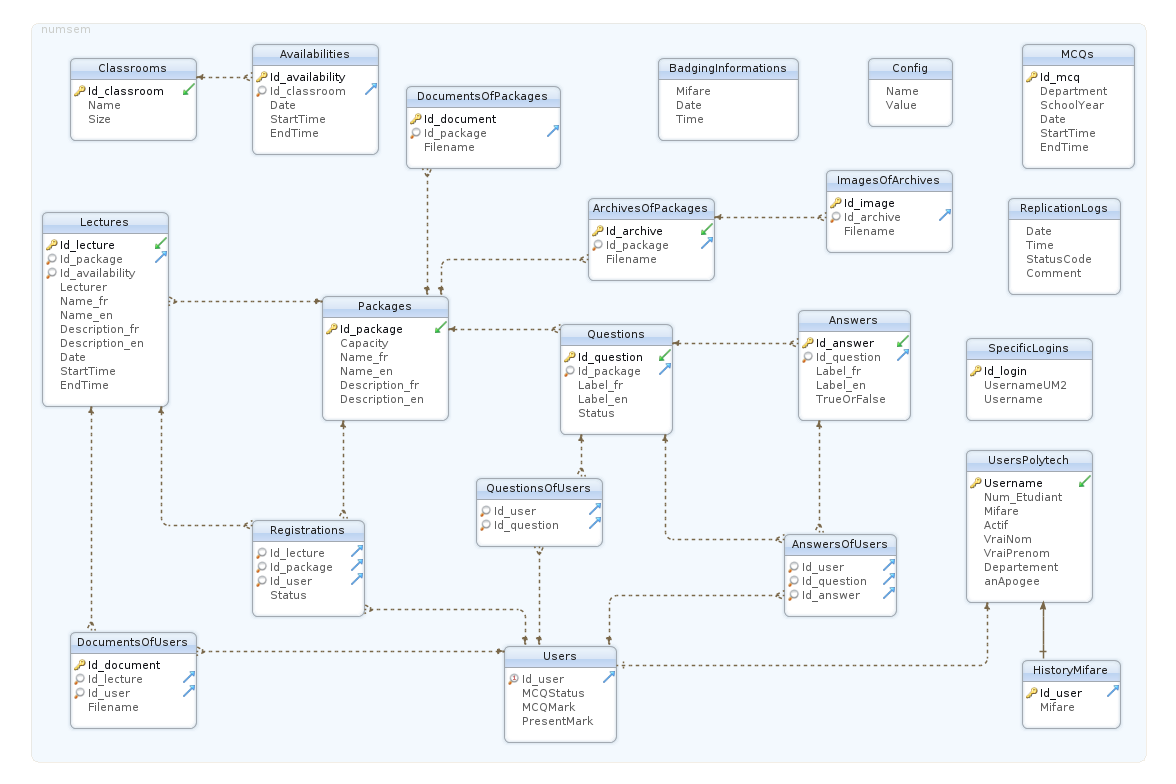
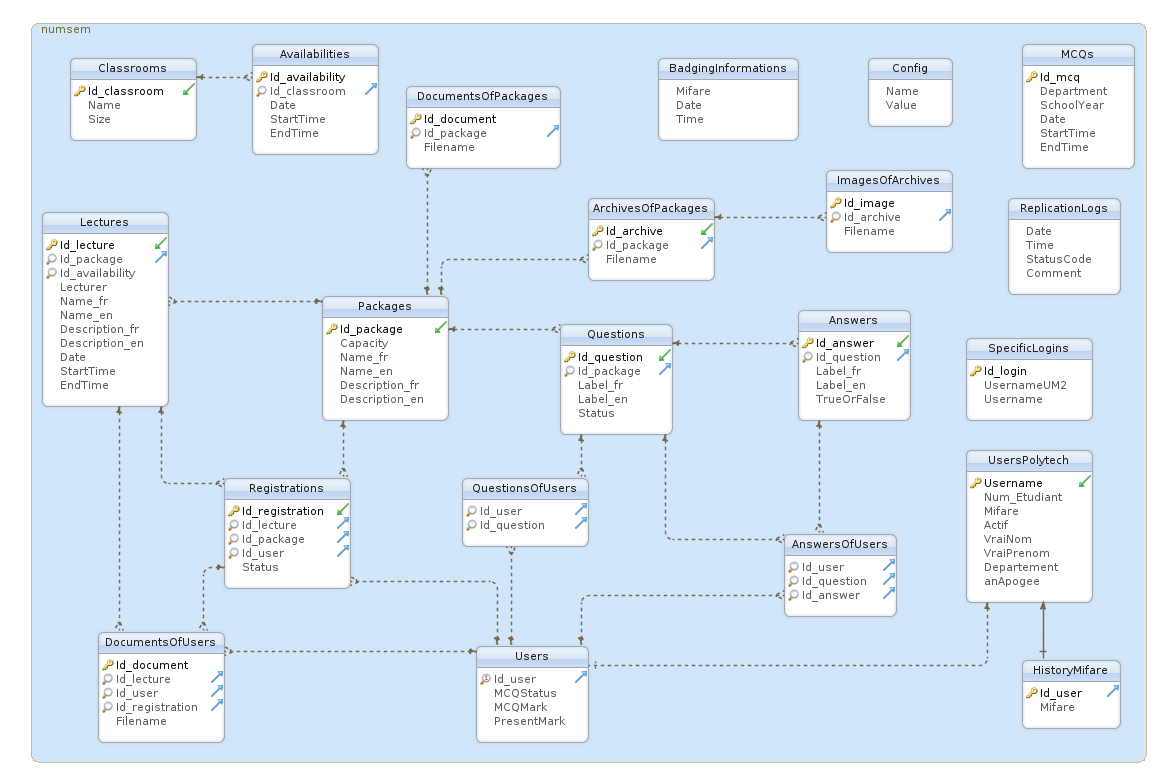
Correction intégrité bd

diff --git a/www/web/styles/style.css b/www/web/styles/style.css
@@ -201,9 +201,11 @@ li
 #flash
 {
 	background: #1F3B62;
-	width: 75%;
+    width: 70%;
     padding: 5px;
-	margin: auto;
+    margin-left: auto;
+    margin-right: auto;
+    margin-bottom: 10px;
     text-align: center;
 }
 

diff --git a/www/lib/models/DocumentOfUserManager.class.php b/www/lib/models/DocumentOfUserManager.class.php
@@ -6,6 +6,7 @@
             $requestSQL = 'SELECT Id_document,
                                   Id_lecture,
                                   Id_user,
+                                  Id_registration,
                                   Filename FROM DocumentsOfUsers';
 
             $paramsSQL = array();
@@ -32,8 +33,9 @@
             {
                 $doc = new DocumentOfUser;
                 $doc->setId($data['Id_document']);
-                $doc->setIdLecture($idLecture);
-                $doc->setIdUser($idUser);
+                $doc->setIdLecture($data['Id_lecture']);
+                $doc->setIdUser($data['Id_user']);
+                $doc->setIdRegistration($data['Id_registration']);
                 $doc->setFilename($data['Filename']);
 
                 $docs[] = $doc;
@@ -46,17 +48,13 @@
         {
             $req = $this->m_dao->prepare('INSERT INTO DocumentsOfUsers(Id_lecture,
                                                                        Id_user, 
-                                                                       Filename) VALUES(?, ?, ?)');
+                                                                       Id_registration, 
+                                                                       Filename) VALUES(?, ?, ?, ?)');
 
             $req->execute(array($doc->getIdLecture(),
                                 $doc->getIdUser(),
+                                $doc->getIdRegistration(),
                                 $doc->getFilename()));
-        }
-
-        public function delete($idLecture, $idUser)
-        {
-            $req = $this->m_dao->prepare('DELETE FROM DocumentsOfUsers WHERE Id_lecture = ? AND Id_user = ?');
-            $req->execute(array($idLecture, $idUser));
         }
     }
 ?>

diff --git a/www/apps/frontend/modules/lectures/views/show.php b/www/apps/frontend/modules/lectures/views/show.php
@@ -77,8 +77,6 @@ $(document).ready(function() {
     }
 ?>
 
-<script type="text/javascript" src="/web/js/confirmation.js"></script>
-
 <?php
     // Display the button only if registration is allowed
     if($registrationsAllowed)
@@ -90,10 +88,10 @@ $(document).ready(function() {
         $form->add('hidden', 'isSubmitted')
              ->value('on');
 
-        $submtiComponent = $form->add('submit', $buttonName);
+        $submitComponent = $form->add('submit', $buttonName);
 
         if(!$wantSubscribe && $haveReportsForThisPackage)
-            $submtiComponent->onClick('return confirmation(\'' . $TEXT['Lecture_ReportsDeletion'] . '\');');
+            $submitComponent->onClick('return window.confirm(\'' . $TEXT['Lecture_ReportsDeletion'] . '\');');
 
         echo $form->toString();
     }

diff --git a/www/apps/frontend/modules/reports/ReportsController.class.php b/www/apps/frontend/modules/reports/ReportsController.class.php
@@ -115,9 +115,17 @@
                     $filename = $packageName . '_' . $lectureName . '_' .$student->getDepartment() . 
                                 $student->getSchoolYear() . '_' . $student->getUsername() .'.pdf';
 
+                    $idRegistration;
+                    foreach($registrations as $reg)
+                    {
+                        if($reg->getIdLecture() == $idLecture)
+                            $idRegistration = $reg->getId();
+                    }
+
                     $doc = new DocumentOfUser;
                     $doc->setIdLecture($idLecture);
                     $doc->setIdUser($username);
+                    $doc->setIdRegistration($idRegistration);
                     $doc->setFilename($filename);
 
                     $managerDoc->save($doc);

diff --git a/www/lib/models/DocumentOfUser.class.php b/www/lib/models/DocumentOfUser.class.php
@@ -4,6 +4,7 @@
         private $m_idDocument;
         private $m_idLecture;
         private $m_idUser;
+        private $m_idRegistration;
         private $m_filename;
 
         public function setId($idDocument)
@@ -34,6 +35,16 @@
         public function getIdUser()
         {
             return $this->m_idUser;
+        }
+
+        public function setIdRegistration($idRegistration)
+        {
+            $this->m_idRegistration = $idRegistration;
+        }
+
+        public function getIdRegistration()
+        {
+            return $this->m_idRegistration;
         }
 
         public function setFilename($filename)

diff --git a/www/apps/frontend/modules/lectures/LecturesController.class.php b/www/apps/frontend/modules/lectures/LecturesController.class.php
@@ -70,12 +70,7 @@
                 }
 
                 foreach($lectures as $lecture)
-                {
                     $managerRegistration->subscribe($request->getData('idPackage'), $lecture->getId(), $username, $wantSubscribe ? 1 : 0);
-
-                    if(!$wantSubscribe && $haveReportsForThisPackage)
-                        $managerDocOfUser->delete($lecture->getId(), $username);
-                }
 
                 $package->setRegistrationsCount($package->getRegistrationsCount() + ($wantSubscribe ? 1 : -1));
 

diff --git a/www/lib/models/Registration.class.php b/www/lib/models/Registration.class.php
@@ -1,10 +1,21 @@
 <?php
     class Registration extends Record
     {
+        private $m_idRegistration;
         private $m_idPackage;
         private $m_idLecture;
         private $m_idUser;
         private $m_status;
+
+        public function setId($idRegistration)
+        {
+            $this->m_idRegistration = $idRegistration;
+        }
+
+        public function getId()
+        {
+            return $this->m_idRegistration;
+        }
 
         public function setIdPackage($idPackage)
         {

diff --git a/www/lib/models/RegistrationManager.class.php b/www/lib/models/RegistrationManager.class.php
@@ -22,6 +22,7 @@
             while($data = $req->fetch())
             {
                 $reg = new Registration;
+                $reg->setId($data['Id_registration']);
                 $reg->setIdPackage($data['Id_package']);
                 $reg->setIdLecture($data['Id_lecture']);
                 $reg->setIdUser($data['Id_user']);
